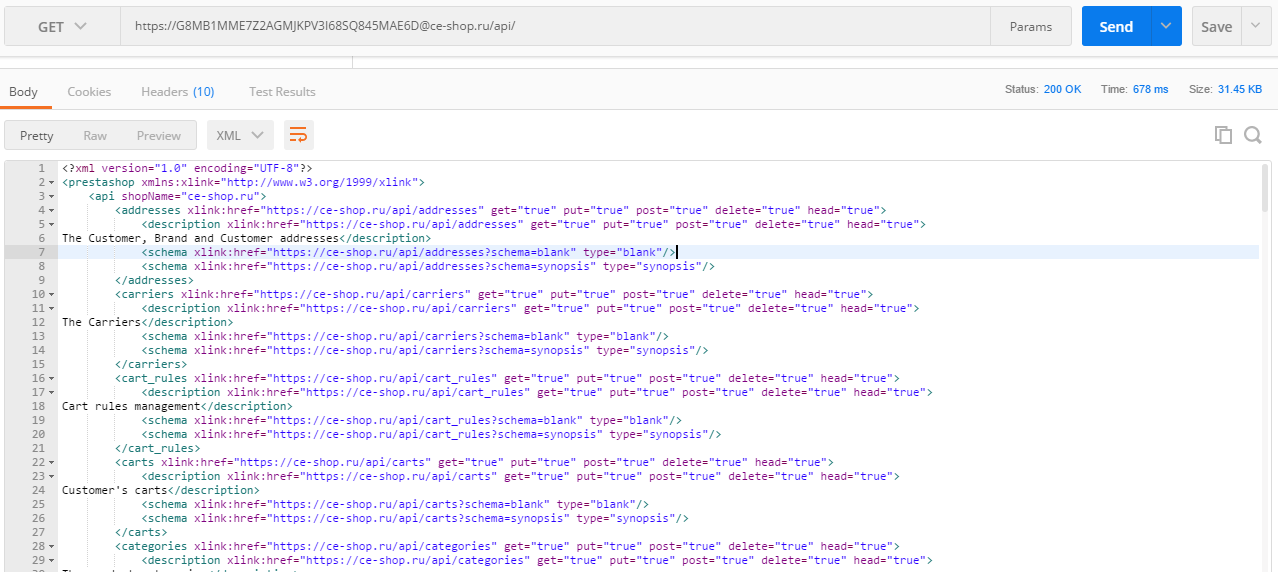
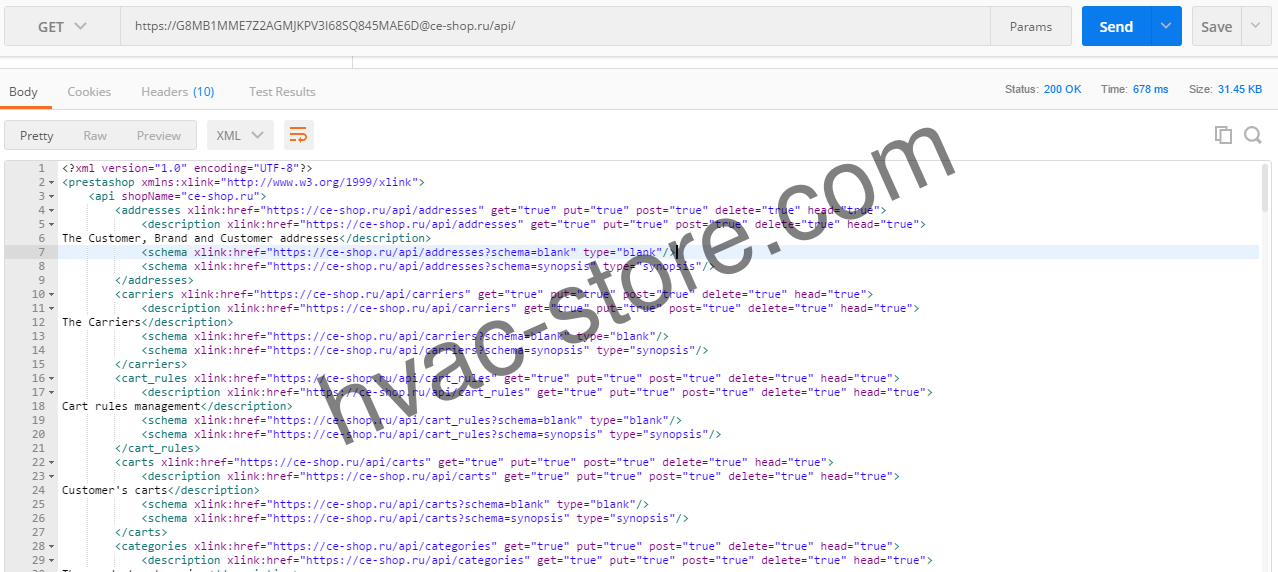
add file hash

Changed region(s): [[0.2441, 0.3864, 0.6103, 0.7727], [0.6103, 0.208, 0.7629, 0.4161]]

diff --git a/app.js b/app.js
@@ -1,45 +1,112 @@
 
-{shell: true}
 'use strict';
 
-var fs = require('fs');
-var watermark = require('text-watermark');
+let fs = require('fs');
+let watermark = require('text-watermark');
+let dir = require('node-dir');
+let path = require('path');
+let crypto = require('crypto');
+let async = require('async');
+
+
+//console.log('Start update img');
 
 
 
-// var watermark = require('image-watermark');
-
-
-console.log('Start update img');
-
-
-var options = {
-    'text' : 'hvac-store.com'
+let options = {
+    'text' : 'hvac-store.com',
+    'override-image' : true
 };
 
-
-// watermark.embedWatermarkWithCb('../rdb_watermark_js/demo/api.png', options, function(err) {
-// 	if (!err)
-//         console.log('Succefully embeded watermark');
-//     if (err)
-// 		console.log('Err: ' + err);    
-// });
-    
+let imgFilePath = __dirname + '/demo/api.png';
+let imgFiledir = __dirname + '/demo/';
 
 
-watermark.addWatermark('../rdb_watermark_js/demo/api.png', options, function(err){
-    if(err)
-        return console.log(err);
+//Промис функция расчета Хеш (пока не используется)
+function fileHash(filename, algorithm = 'md5') {
+    return new Promise((resolve, reject) => {
+      // Algorithm depends on availability of OpenSSL on platform
+      // Another algorithms: 'sha1', 'md5', 'sha256', 'sha512' ...
+      let shasum = crypto.createHash(algorithm);
+      try {
+        let s = fs.ReadStream(filename)
+        s.on('data', function (data) {
+          shasum.update(data)
+        })
+        // making digest
+        s.on('end', function () {
+          const hash = shasum.digest('hex')
+          return resolve(hash);
+        })
+      } catch (error) {
+        return reject('calc fail');
+      }
+    });
+  }
 
-    return console.log("Successful - no error");
-});
 
 
-    
+
+
+
+// Спсисок файлов дирректории
+ const files = fs.readdirSync(imgFiledir).reduce((p, c) => {
+  if (fs.statSync(imgFiledir + c).isFile()) {
+      p.push(c);
+  }
+  return p;
+}, []); 
+ console.log(files);
+
+
+
+// Перебирает файлы в массиве и записывает шеши в один файл
+/* (function makeHash(i) {
+ console.log(i + ': ' + imgFiledir + files[i]);
+  const fd = fs.createReadStream(imgFiledir + files[i]);
+  const hash = crypto.createHash("md5");
+  hash.setEncoding("hex");
+  fd.on("end", () => {
+      hash.end();
+      fs.appendFileSync("hash", `${files[i++]}:${hash.read()}\n`);
+      if (i < files.length) {
+          makeHash(i);
+      }
+  });
+
+  fd.pipe(hash);
+})(0);
+ */
+
+function makeHashfile(img) {
+   const fd = fs.createReadStream(img);
+   const hash = crypto.createHash("md5");
+   hash.setEncoding("hex");
+   fd.on("end", () => {
+       hash.end();
+       let HashFileName = img + '.hash' ;
+       console.log(HashFileName);
+       //fs.appendFileSync(HashFileName, `${hash.read()}`);
+       fs.writeFileSync(HashFileName, `${hash.read()}`);
+   });
+ 
+   fd.pipe(hash);
+ };
+
+
+ // Ставим водный знак на конкретный файл
+ watermark.addWatermark(imgFilePath, options, function(err){
+  if(err)
+      return console.log(err);
+  if (!err)
+      makeHashfile(imgFilePath);
+  return console.log("Successful - no error");
+}); 
 
 
 
 console.log('Finish update img');
+
 
 
 
